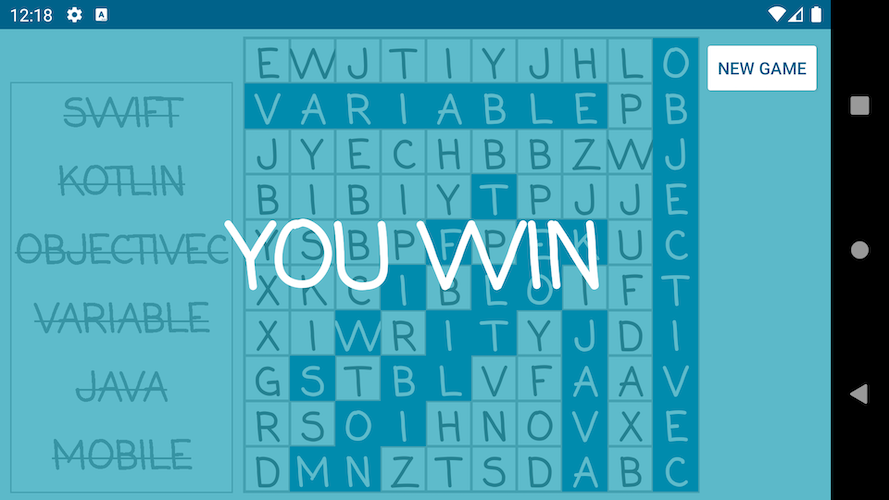
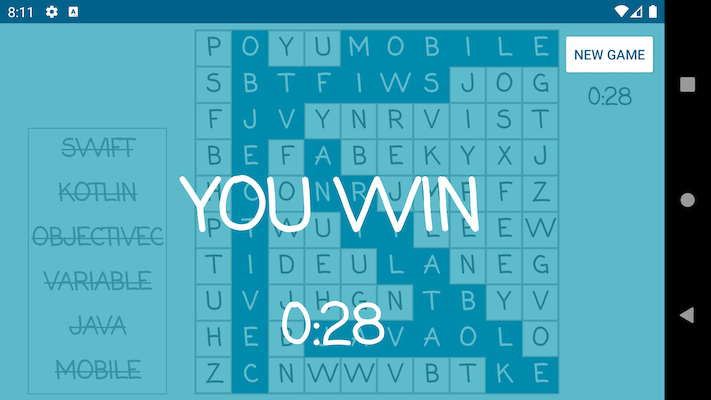
Orientation changing fix

diff --git a/app/src/main/java/com/victorlengler/wordsearch/MainActivity.java b/app/src/main/java/com/victorlengler/wordsearch/MainActivity.java
@@ -170,6 +170,7 @@ public class MainActivity extends AppCompatActivity {
                 // if the timer can count and there is a current timer, set to the text view
                 if (timerStopped && savedInstanceState.getString(STATE_CURRENT_TIMER) != null) {
                     totalTime.setText(savedInstanceState.getString(STATE_CURRENT_TIMER));
+                    timerText.setText(savedInstanceState.getString(STATE_CURRENT_TIMER));
                 }
             }
 
@@ -308,7 +309,7 @@ public class MainActivity extends AppCompatActivity {
             this.cellSize = height / (maxGridSize + 1);
 
             // number of rows in the
-            wordsRows = wordsToFind.size();
+            wordsRows = wordsToFind.contains("") ? wordsToFind.size() - 1 : wordsToFind.size();
 
             // gets the current values
             ConstraintSet constraintSet = new ConstraintSet();
@@ -338,7 +339,7 @@ public class MainActivity extends AppCompatActivity {
         }
 
         // set the letter size
-        this.letterSize = cellSize / 3;
+        this.letterSize = (int)(cellSize / 3.8);
     }
 
     // this function creates the ui for the game using the previously set values
@@ -653,6 +654,9 @@ public class MainActivity extends AppCompatActivity {
 
         // save the size of the grid
         outState.putInt(STATE_GRID_SIZE, maxGridSize);
+
+        // save the current time
+        outState.putString(STATE_CURRENT_TIMER, timerText.getText().toString());
 
         // if the game started date exists, save it too
         if (gameStartedDate != null) {

diff --git a/app/src/main/java/com/victorlengler/wordsearch/Letter.java b/app/src/main/java/com/victorlengler/wordsearch/Letter.java
@@ -2,6 +2,7 @@ package com.victorlengler.wordsearch;
 
 import android.content.Context;
 import android.graphics.Typeface;
+import android.view.Gravity;
 import android.view.View;
 import android.widget.TextView;
 
@@ -34,12 +35,11 @@ public class Letter implements Serializable {
         view.setWidth(cellSize);
         view.setHeight(cellSize);
         view.setBackgroundResource(R.drawable.letter_border);
-        view.setTextAlignment(View.TEXT_ALIGNMENT_CENTER);
         view.setTextSize(letterSize);
         view.setText(value + "");
         view.setTypeface(Typeface.create("casual", Typeface.BOLD));
         view.setPadding(0,0,0,0);
-        view.setGravity(View.TEXT_ALIGNMENT_CENTER);
+        view.setGravity(Gravity.CENTER);
     }
 
     public char getValue() {
